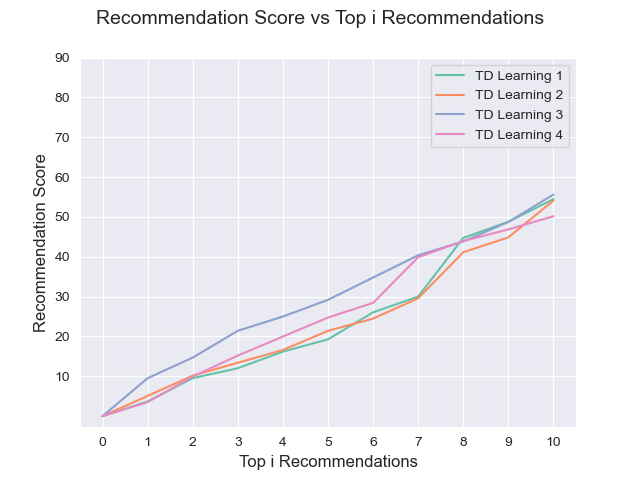
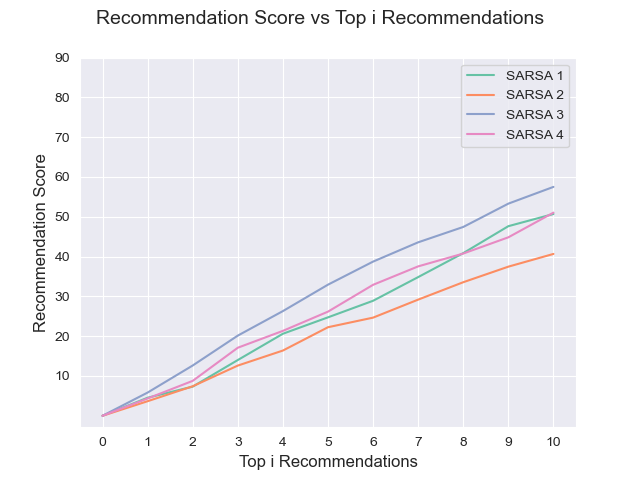
Changes

diff --git a/mdp.py b/mdp.py
@@ -229,63 +229,63 @@ class MDP:
             new_reward += action_values[self.policy[state]]
         return new_reward / len(self.S)
 
-    def sarsa_algorithm_for_optimal_policies(self, N=1000, alpha=1.0, gamma=0.9, epsilon=0.5, stability_threshold=0.05, to_save=True):
+    def sarsa_for_optimal_policies(self, N=100, alpha=1.0, gamma=0.9, epsilon=0.5, max_steps_per_episode=10, to_save=True):
         best_policy = None
         best_policy_performance = float('-inf')
-        value_prev = self.V.copy()  # Copy of the initial state values
 
-        # Initialize Q-values
+        # Initialize Q-values (action values)
         Q = {state: {action: 0 for action in self.A} for state in self.S}
 
         for i in range(N):
             print('Episode - ', i + 1)
 
-            # Initialize state
+            # Initialize state and action
             state = random.choice(list(self.S))
-
-            # Choose action from state using policy derived from Q (ε-greedy)
             action = self.choose_action(state, Q, epsilon)
-            diff = []
-            while True:
+
+            for step in range(max_steps_per_episode):
                 # Take action and observe reward and next state
                 next_state, reward = self.step(state, action)
 
                 # Choose next action from next state using policy derived from Q (ε-greedy)
                 next_action = self.choose_action(next_state, Q, epsilon)
-                diff.append(alpha * (reward + gamma * Q[next_state][next_action] - Q[state][action]))
+
+                # Check if the next state is in the Q-table, add if not
+                if next_state not in Q:
+                    Q[next_state] = {a: 0 for a in self.A}
+
                 # SARSA Update
                 Q[state][action] += alpha * (reward + gamma * Q[next_state][next_action] - Q[state][action])
 
                 state, action = next_state, next_action
 
-                # Derive policy from Q-values
-                for s in self.S:
-                    self.policy[s] = max(Q[s], key=Q[s].get)
+            # Derive policy from Q-values
+            for s in self.S:
+                self.policy[s] = max(Q[s], key=Q[s].get)
 
-                # Evaluate policy performance
-                self.V = self.policy_eval()
-                performance = sum(self.V.values())
-                self.iteration_vs_reward.append(performance)
+            # Evaluate policy performance
+            self.V = self.policy_eval()
+            performance = sum(self.V.values())
+            self.iteration_vs_reward.append(performance)
 
-                if performance > best_policy_performance:
-                    best_policy_performance = performance
-                    best_policy = self.policy.copy()
+            if performance > best_policy_performance:
+                best_policy_performance = performance
+                best_policy = self.policy.copy()
 
-                # Check if the value function has stabilized
-                if self.is_value_stable(value_prev, stability_threshold):
-                    print('Value function stabilized at episode - ', i + 1)
-                    break
+        print('Best Policy Performance - ', best_policy_performance)
+        self.policy = best_policy
 
-                # Update the previous value function for the next iteration
-                value_prev = self.V.copy()
-            print(np.mean(diff))
-            print('Best Policy Performance - ', best_policy_performance)
-            self.policy = best_policy
-
-            if to_save:
-                self.save("sarsa_mdp-model_k=" + str(self.mdp_i.k) + ".pkl")
+        if to_save:
+            self.save("sarsa_mdp-model_k=" + str(self.mdp_i.k) + ".pkl")
 
     def choose_action(self, state, Q, epsilon):
+        """
+        Choose an action based on an ε-greedy policy derived from Q-values.
+        :param state: The current state
+        :param Q: The dictionary of Q-values
+        :param epsilon: The probability of choosing a random action (exploration)
+        :return: The chosen action
+        """
         # Check if the state is in the Q-table, add if not
         if state not in Q:
             Q[state] = {action: 0 for action in self.A}
@@ -294,21 +294,8 @@ class MDP:
             # Exploration: choose a random action
             return random.choice(self.A)
         else:
-            # Exploitation: choose the best action based on state values
-            # Calculate the value of each action by considering the state value of the resulting state
+            # Exploitation: choose the best action based on Q-values
             return max(Q[state], key=Q[state].get)
-
-    def is_value_stable(self, value_prev, threshold):
-        """
-        Check if the value function has stabilized.
-        :param value_prev: the previous value function
-        :param threshold: the threshold for considering a change as significant
-        :return: Boolean indicating if the value function is stable
-        """
-        for state in value_prev:
-            if abs(value_prev[state] - self.V[state]) > threshold:
-                return False
-        return True
 
     def q_learning_for_optimal_policies(self, N=100, alpha=1.0, gamma=0.9, epsilon=0.5, max_steps_per_episode=10, to_save=True):
         best_policy = None
@@ -376,7 +363,7 @@ class MDP:
             return max(Q[state], key=Q[state].get)
 
 
-    def td_learning_for_optimal_policies(self, N=100, alpha=0.7, gamma=0.7, epsilon=0.5, max_steps_per_episode=10, to_save=True):
+    def td_learning_for_optimal_policies(self, N=100, alpha=1.0, gamma=0.9, epsilon=0.5, max_steps_per_episode=10, to_save=True):
         best_policy = None
         best_policy_performance = float('-inf')
 

diff --git a/main.py b/main.py
@@ -10,7 +10,7 @@ RANDOMIZED_MODEL_PATH='saved_models/randomized-algo'
 SARSA_MODEL_PATH='saved_models/sarsa'
 TD_MODEL_PATH = 'saved_models/td'
 QLEARNING_MODEL_PATH = 'saved_models/Q'
-K_LAST_PURCHASES = 2
+K_LAST_PURCHASES = 4
 
 ## Training Mixture Model with Monte Carlo ##
 # mixture_model = MixtureModel(path='dataset', k=K_LAST_PURCHASES, verbose=True, save_path='saved_models/'+MONTE_CARLO_MODEL_PATH)
@@ -23,15 +23,15 @@ K_LAST_PURCHASES = 2
 #     mm.randomized_algorithm_for_optimal_policies(N=100)
 
 # Training Mixture Model with SARSA Algorithm for identifying optimal policies ##
-# for i in range(K_LAST_PURCHASES):
-#     mm = MDP(PATH, k=i+1, save_path=SARSA_MODEL_PATH)
-#     mm.initialise_mdp()
-#     mm.sarsa_algorithm_for_optimal_policies(N=100)
-
-for i in range(1, K_LAST_PURCHASES):
-    mm = MDP(PATH, k=i+1, save_path=TD_MODEL_PATH)
+for i in range(K_LAST_PURCHASES):
+    mm = MDP(PATH, k=i+1, save_path=SARSA_MODEL_PATH)
     mm.initialise_mdp()
-    mm.td_learning_for_optimal_policies(N=100)
+    mm.sarsa_for_optimal_policies(N=100)
+
+# for i in range(1, K_LAST_PURCHASES):
+#     mm = MDP(PATH, k=i+1, save_path=TD_MODEL_PATH)
+#     mm.initialise_mdp()
+#     mm.td_learning_for_optimal_policies(N=100)
 
 # for i in range(K_LAST_PURCHASES):
 #     mm = MDP(PATH, k=i+1, save_path=QLEARNING_MODEL_PATH)

diff --git a/run_benchmarks.py b/run_benchmarks.py
@@ -105,7 +105,6 @@ def graph_iteration_vs_reward(model_load_path, filename, label, k=4, m=10, with_
         rs.load(filename + str(idx+1) + '.pkl')
         y = rs.iteration_vs_reward
         x = [i+1 for i in range(len(y))]
-        
         row_idx = idx // cols
         col_idx = idx % cols
         #print(idx, row_idx, col_idx)
@@ -123,6 +122,10 @@ def graph_iteration_vs_reward(model_load_path, filename, label, k=4, m=10, with_
 
 
 k_value = 4
-graph_recommendation_score('td', filename ='td_mdp-model_k=', label ="TD Learning ", scale=k_value)
-graph_decay_score('td',  filename ='td_mdp-model_k=', scale=k_value, rand=False)
-graph_iteration_vs_reward('td', filename ='td_mdp-model_k=', label ="TD Learning ", k=k_value)
+# graph_recommendation_score('td', filename ='td_mdp-model_k=', label ="TD Learning ", scale=k_value)
+# graph_decay_score('td',  filename ='td_mdp-model_k=', scale=k_value, rand=False)
+# graph_iteration_vs_reward('td', filename ='td_mdp-model_k=', label ="TD Learning ", k=k_value)
+
+graph_recommendation_score('sarsa', filename ='sarsa_mdp-model_k=', label ="Tabular SARSA ", scale=k_value)
+graph_decay_score('sarsa',  filename ='sarsa_mdp-model_k=', scale=k_value, rand=False)
+graph_iteration_vs_reward('sarsa', filename ='sarsa_mdp-model_k=', label ="Tabular SARSA ", k=k_value)
